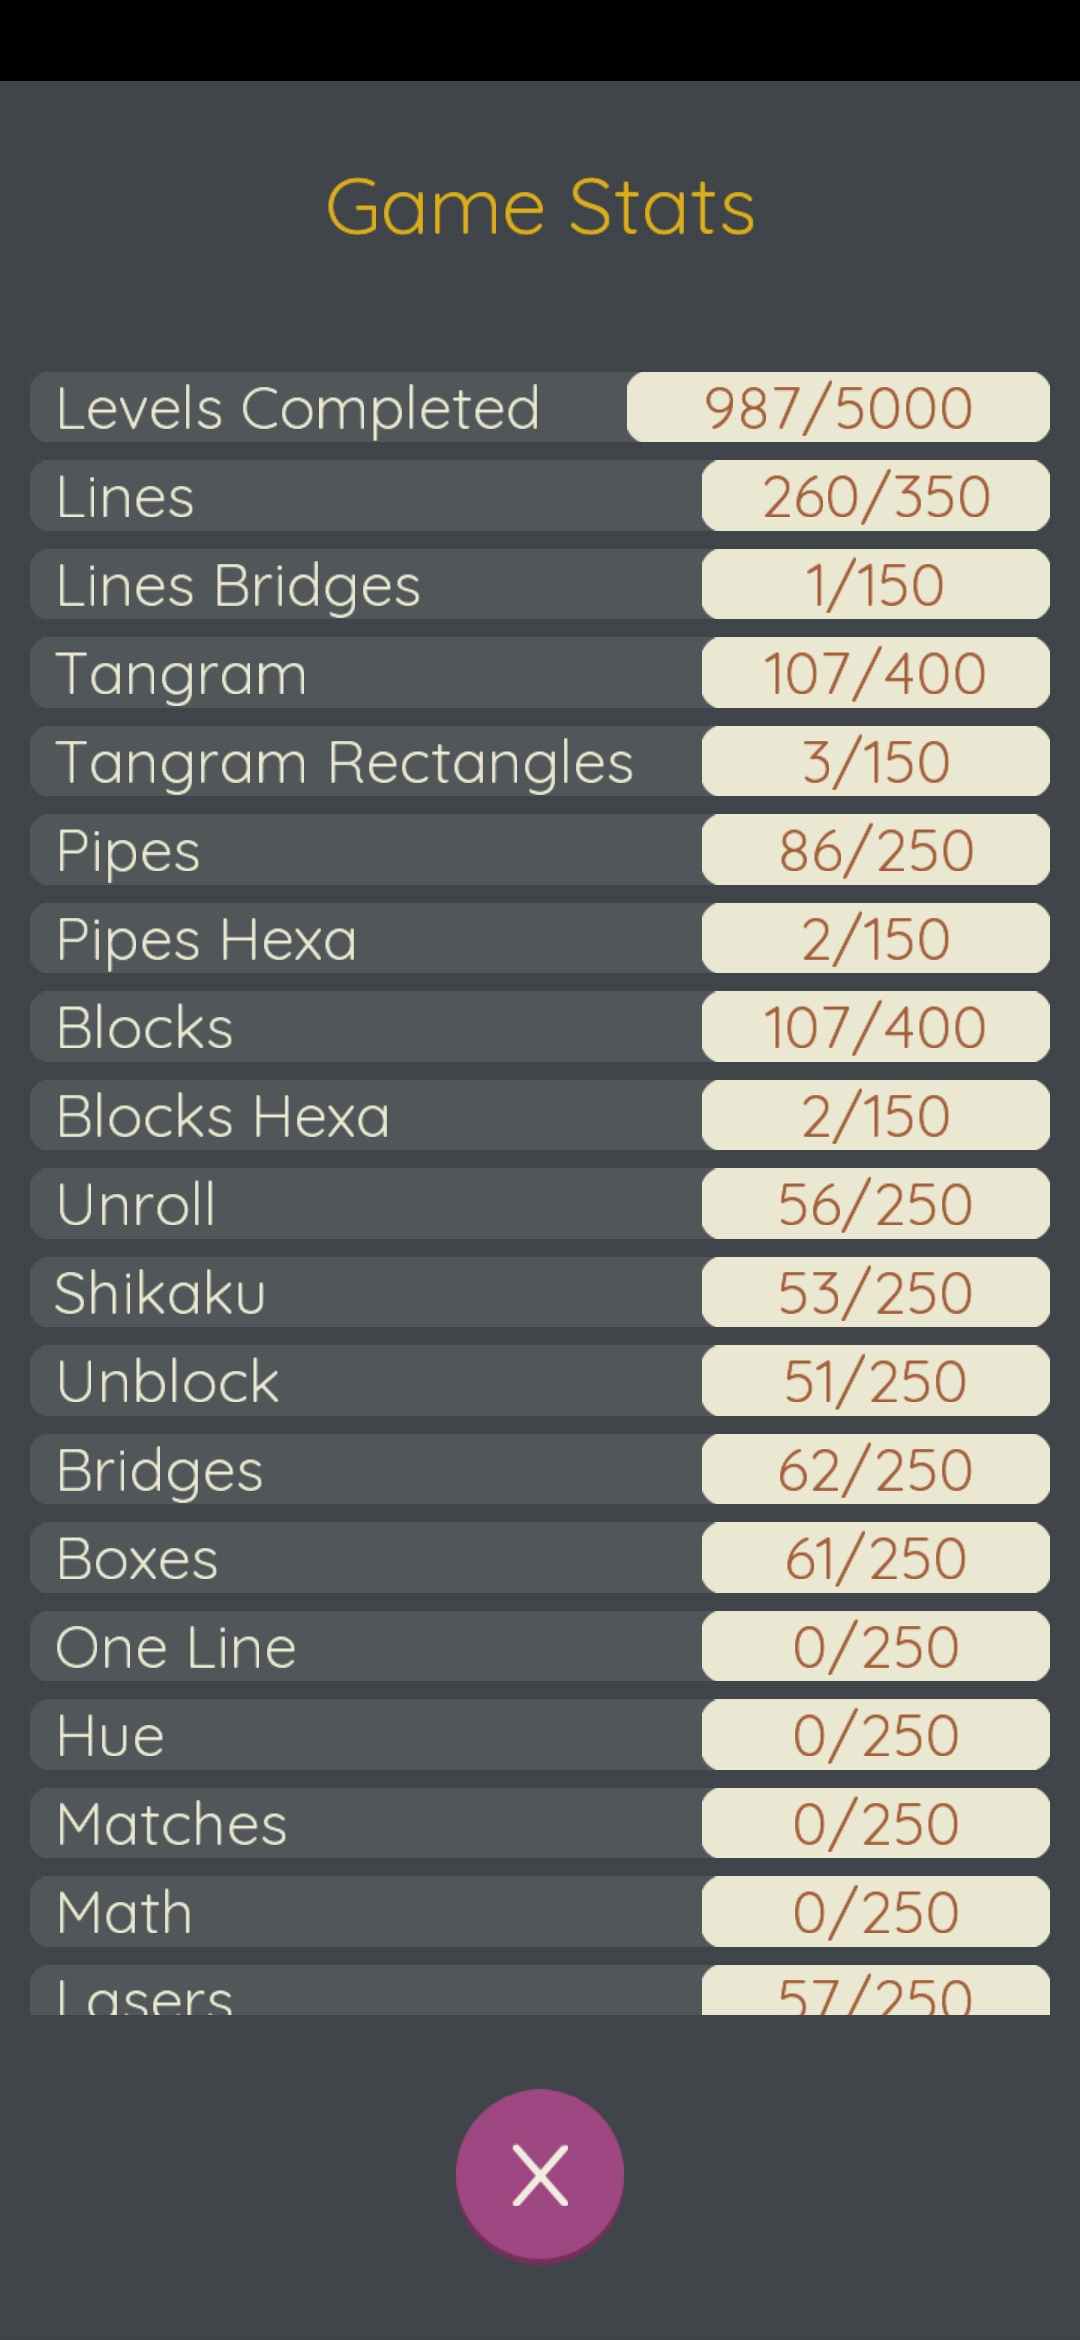
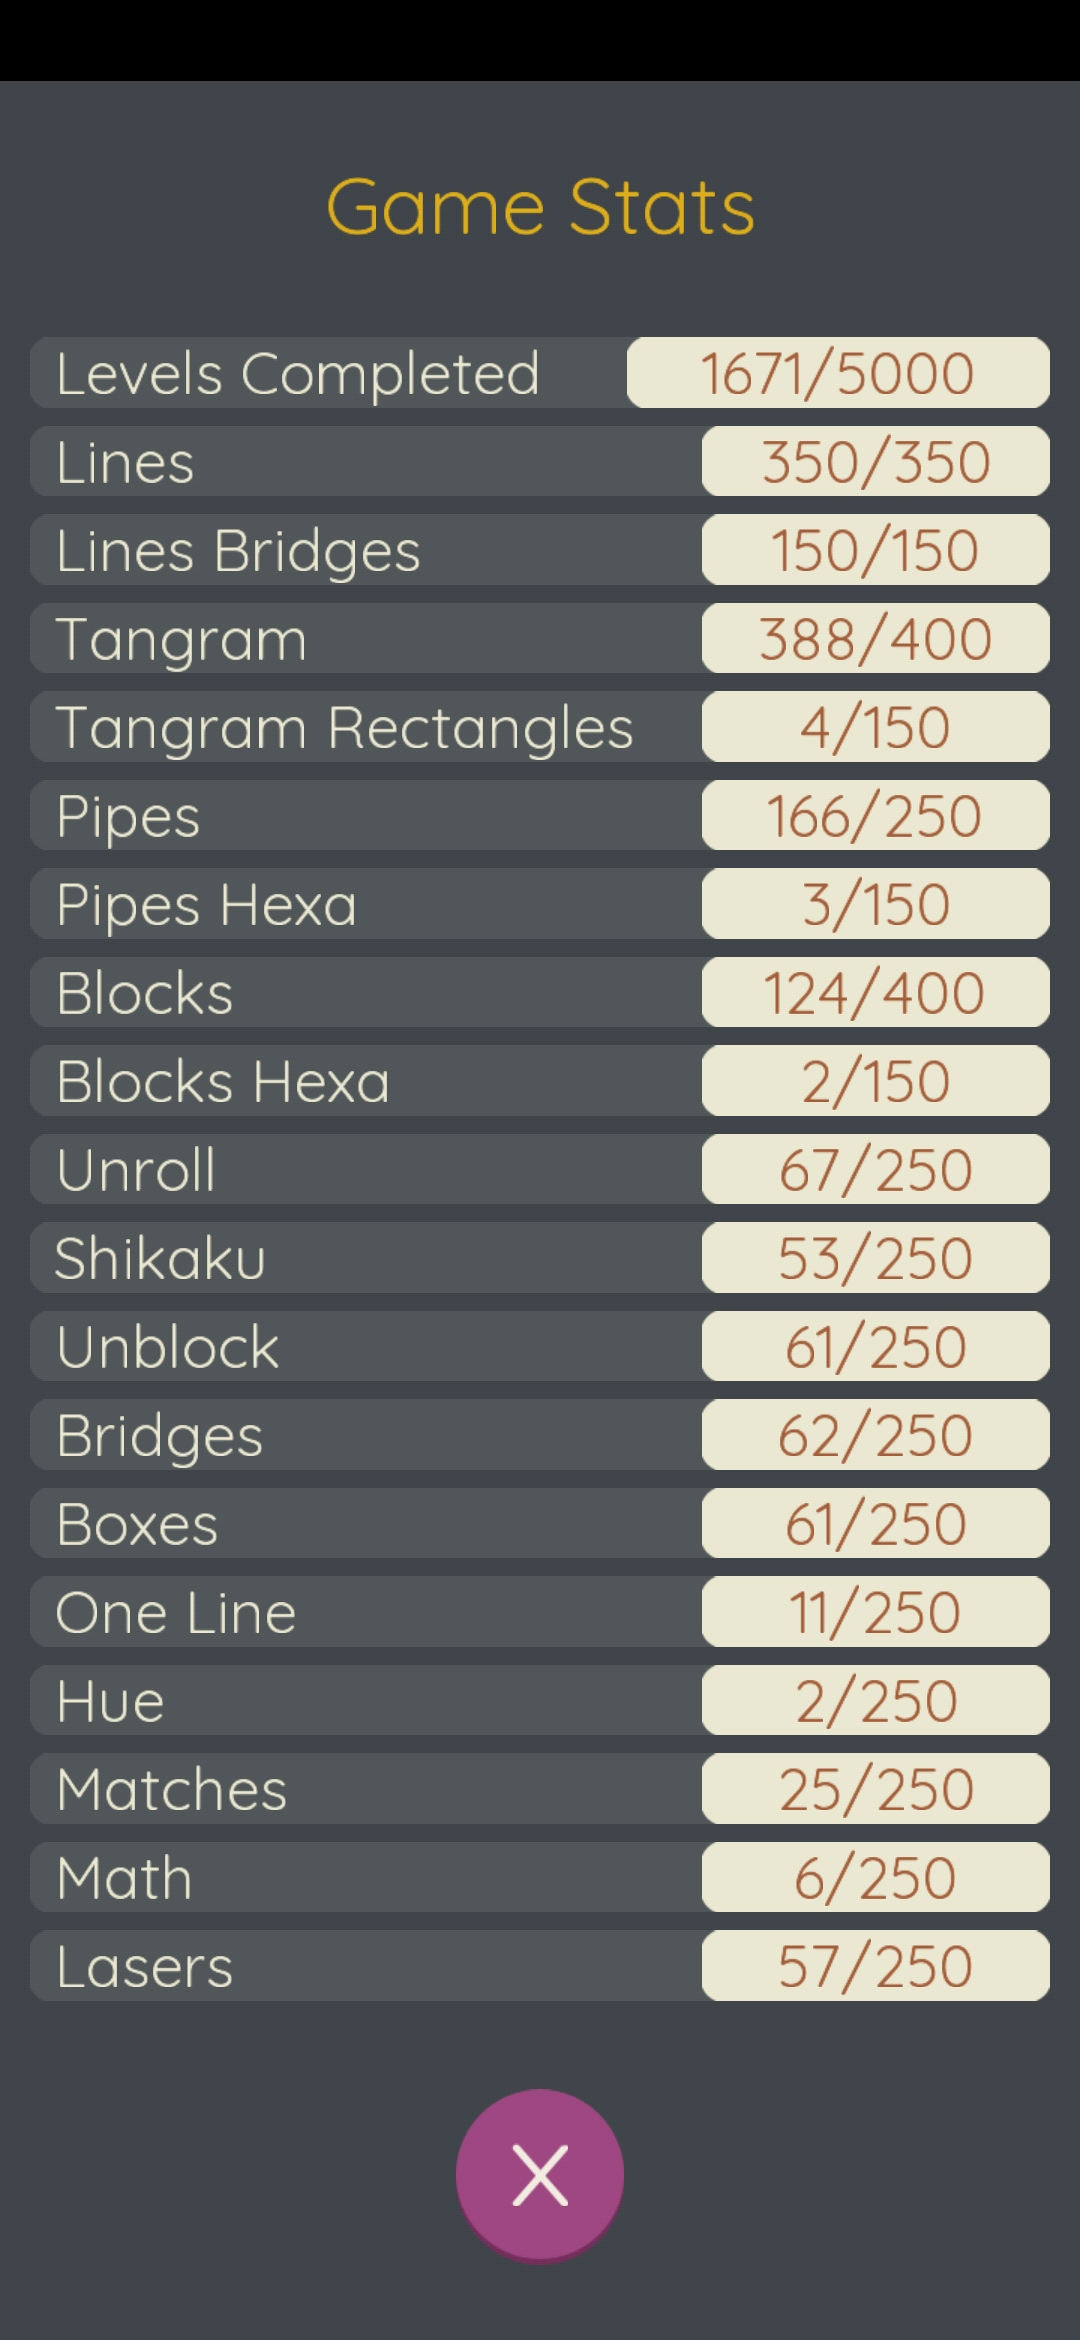
Finish feb games post

Changed region(s): [[0.5806, 0.1248, 0.9778, 0.8735], [0.0306, 0.156, 0.5806, 0.8735], [0.2444, 0.4368, 0.3667, 0.4991]]

diff --git a/_drafts/2024-02-07-android-game-reviews-feb24.md b/_drafts/2024-02-07-android-game-reviews-feb24.md
@@ -1,0 +1,122 @@
+---
+title: "3 Android games I've enjoyed lately: Wordathlon, Puzzlerama, Grimoire 📲"
+author: Jake Lee
+layout: post
+image: /assets/images/2024/feb24-games.png
+tags:
+  - Android
+  - Gaming
+---
+
+A nice mixture of games this month! A word game, an all-in-one puzzle game, and a classic incremental. All very relaxed, all light entertainment, and all reasonably monetised. Wahoo!
+
+The games are in descending order of "fun", and might contain mild spoilers:
+
+## #1: [Puzzlerama](https://play.google.com/store/apps/details?id=com.leodesol.games.puzzlecollection)
+
+Puzzlerama is just a well implemented collection of various types of puzzles. I've had it installed since at least 2018 on various devices, and it's a loyal friend that I'll get into for a week or two, drop it for 6 months, and repeat.
+
+### Review
+
+If you like any kind of puzzles, you'll enjoy the game. No time pressures, very few in-app purchase opportunities, just solid puzzling gameplay.
+
+The game features 15+ different styles of puzzle, with each containing hundreds of puzzles across multiple difficulties. Most puzzle styles also have a "variant" mode, adding some extra variety.
+
+Puzzlerama isn't a game I'd actively play for hours, but it is perhaps my all-time favourite game for short, 1-minute play sessions. This is especially true without internet, or when in public, since there are no sounds, no flashing lights, and it's fine to just lock the screen whenever.
+
+Although all the included puzzles are traditional classics (Tangram, Pipes, Lines, etc) that you might have played elsewhere, having them all in one place without any predatory monetisation really boosts the appeal of each. Additionally, it's interesting how challenging these puzzles can get, I never thought I'd be stumped by a Tangram!
+
+Completing the game 100% is extremely time-consuming, my stats say I've completed 1671/5000 in around 20 hours of gameplay, but obviously this is all easier levels! As is typical with puzzle games, there is a "hint" system that will help ease you past tricky parts. However, since these are limited and require adverts / payment to get more, I essentially never use them.
+
+Finally, there's no concept of "lives" or "energy", you can play for as long as you want, and undo / redo moves.
+
+### Monetisation
+
+There are no pop-up ads, but you can watch optional adverts for additional hints, or purchase more. These are completely optional, and are arguably "cheating" since all puzzles can be solved with logic!
+
+The game states that purchasing hints also removes adverts, but I'm not sure if I've ever done this. Having a game installed for 6+ years makes you forgetful. Either way, the monetisation is very fair considering the massive amounts of time that can be spent.
+
+I think types of puzzles can be purchased, as I can see "Matches & Math" on sale for ~$10. This might seem expensive, but each has 500+ levels so is likely worth it for a likely best-in-Play-Store experience of that puzzle style. I actually ended up purchasing it after initially writing this review, and it's what you'd expect: well implemented puzzling.
+
+### Tips
+
+There's too many puzzle types to offer any tips! As with any puzzle game, just change puzzle if you're stuck, sometimes a harder one will turn out to actually be easier.
+
+### Screenshots
+
+| Level select                                                                                    | All levels                                                                                      | Expert difficulty Pipes                                                                         |
+| ----------------------------------------------------------------------------------------------- | ----------------------------------------------------------------------------------------------- | ----------------------------------------------------------------------------------------------- |
+| [![](/assets/images/2024/jan24-puzzle-1-thumbnail.jpg)](/assets/images/2024/jan24-puzzle-1.jpg) | [![](/assets/images/2024/jan24-puzzle-2-thumbnail.jpg)](/assets/images/2024/jan24-puzzle-2.jpg) | [![](/assets/images/2024/jan24-puzzle-3-thumbnail.jpg)](/assets/images/2024/jan24-puzzle-3.jpg) |
+
+## #2: [Wordathlon](https://play.google.com/store/apps/details?id=com.legenbearygames.wordathlon.word.matrix.puzzle)
+
+A game recommended by the Play Store that I didn't hate! Wordathlon is all about making 5-letter words to solve the grid, excellent if you like anagrams.
+
+### Review
+
+The gameplay of Wordathlon is extremely simple, and the first level plays identically to the 50th. You have a pool of letters, and need to solve the 4 "edges" using words that form a loop.
+
+These correct words are predetermined, so there's not much strategy (although there is a bit, see "Tips"). Whilst it could get frustrating trying to guess words with no clues, the game makes the clever decision to reward you for incorrect guesses. So long as you spell a valid word, you'll solve one of the letters around the edge. This means you could technically solve an entire puzzle without getting any of the 4 words!
+
+Similar to [Wordiest](https://play.google.com/store/apps/details?id=com.concreterose.wordiest), Wordathlon also has a kind of very casual multiplayer. Upon loading each puzzle, you'll be told what percentage of players got this far. This is surprisingly high, with only around 0.2-0.5% of users stopping at each puzzle!
+
+For example, 76.15% of players reached level 42, with each level taking a couple of minutes. It's nice seeing this percentage slowly go down, although I am a little scared of how many puzzles it will take to get in the top 10%... my guess is at least 1000.
+
+There's also a daily changing puzzle that rewards a few clues for completion. It's a simple game, but if you enjoy the gameplay I assume it goes on for a very long time.
+
+### Monetisation
+
+Unfortunately the game has adverts. You'll receive a 5-10 second advert after every puzzle, and sometimes even have them at the bottom of the screen. The adverts at the bottom specifically really jar with the relaxing, laid back vibe of the game, and are far too distracting.
+
+Usually I would purchase the ad-free upgrade, especially as it seems to be the only purchase available, but it's £7 ($9)! That's far too much, and around twice what I'd expect from a game, especially one as simple as this.
+
+Additionally, purchasing the "ad free" option still includes watching adverts for extra hints, so it's actually "no forced ads". I might end up buying it, but if it was cheaper I would have bought it already.
+
+### Tips
+
+- If you can think of a word, just play it even if it can't fit. You'll get a free letter.
+- On especially tricky puzzles, you might want to avoid playing a correct word if it uses up a letter. For example, if a word uses the last `F`, you can no longer make incorrect guesses with `F`.
+- Make sure to pay attention to the number of each letter available. If there's already an `F` in an unfinished word around the edge, and there is only one `F` available, it can't be used anywhere else!
+- Some of the words used are absurdly obscure, so I suspect the levels are automatically generated to some degree. Sometimes you need to just try random letter combinations
+
+### Screenshots
+
+| Hidden word                                                                                 | Multiplayer                                                                                 | Guessing                                                                                    |
+| ------------------------------------------------------------------------------------------- | ------------------------------------------------------------------------------------------- | ------------------------------------------------------------------------------------------- |
+| [![](/assets/images/2024/jan24-word-1-thumbnail.jpg)](/assets/images/2024/jan24-word-1.jpg) | [![](/assets/images/2024/jan24-word-2-thumbnail.jpg)](/assets/images/2024/jan24-word-2.jpg) | [![](/assets/images/2024/jan24-word-3-thumbnail.jpg)](/assets/images/2024/jan24-word-3.jpg) |
+
+## #3: [Grimoire Incremental](https://play.google.com/store/apps/details?id=com.legenbearygames.wordathlon.word.matrix.puzzle)
+
+Grimoire is nothing crazy, it's just a straightforward incremental. Well, straightforward in gameplay, not in mechanics!
+
+### Review
+
+I originally found Grimoire via [an ignored comment on r/incremental_games](https://www.reddit.com/r/incremental_games/comments/1adp7rz/what_games_are_you_playing_this_week_game/kowm0o1/), and it rang a faint bell. I'm pretty sure I tried this once before, but didn't have the achievement you earn ~10 minutes in, so obviously didn't get very far in.
+
+Anyway, the game is all about unlocking the secrets within a book. Each "prestige" is the book being put away, and someone else picking it up in the future. "Notes" are passed between owners of the book, and this metaphor applies to all the currencies / progression systems (Comprehension, Followers, Runes, Spells, Proficiency, etc).
+
+Interestingly, most systems within the game let you prioritise either idle or active gameplay. This starts very early on, with the 2 first upgrades being "Proficiency" (runes per tap) and "Flow" (runes per second). Both are pretty rewarding and can be upgraded regularly, whilst working towards the more advanced mechanics. Additionally, there are "achievements" for specific feats (e.g. completing the initial gameplay loop within 10 seconds) that unlock permanent perks.
+
+Every 10-20 minutes of active gameplay, or few hours of idle gameplay, a new feature or decision will unlock. This adds a nice bit of variety to the gameplay, instead of just spam clicking upgrade buttons. This is helped by a slowly evolving story revealed as you progress, that can be reread at any time.
+
+The game's navigation system can be a little disorientating at first, with each tab appearing as a simple letter square at the bottom of the screen. New tabs will unlock, and it's quite easy to miss them entirely. Similarly, I still find myself having to cycle through them all to find the one we're after.
+
+I'm only a couple of days in, but I can definitely see myself progressing through and getting a large amount of the game completed.
+
+### Monetisation
+
+There is very fair monetisation, with a single advert watching providing 2.5x all rune gains for 4 hours. This is very generous, and one of the best I've seen in incremental games!
+
+There is also a $5 payment to permanently earn 2.5x runes. Unfortunately this is undermined by the generosity of the advert boost, but I'll probably pay this if I continue playing for a couple of weeks.
+
+### Tips
+
+- If you can, active gameplay can be very rewarding.
+- Make sure your "setup" is ready for your upcoming gameplay style. For example, all your options should be idle based if you're about to go to sleep.
+- "Retire" (Prestige) when you have at least 2x your previous notes, or have hit a wall.
+
+### Screenshots
+
+| Guide                                                                                               | Society                                                                                             | Statistics                                                                                          |
+| --------------------------------------------------------------------------------------------------- | --------------------------------------------------------------------------------------------------- | --------------------------------------------------------------------------------------------------- |
+| [![](/assets/images/2024/jan24-grimoire-1-thumbnail.jpg)](/assets/images/2024/jan24-grimoire-1.jpg) | [![](/assets/images/2024/jan24-grimoire-2-thumbnail.jpg)](/assets/images/2024/jan24-grimoire-2.jpg) | [![](/assets/images/2024/jan24-grimoire-3-thumbnail.jpg)](/assets/images/2024/jan24-grimoire-3.jpg) |
